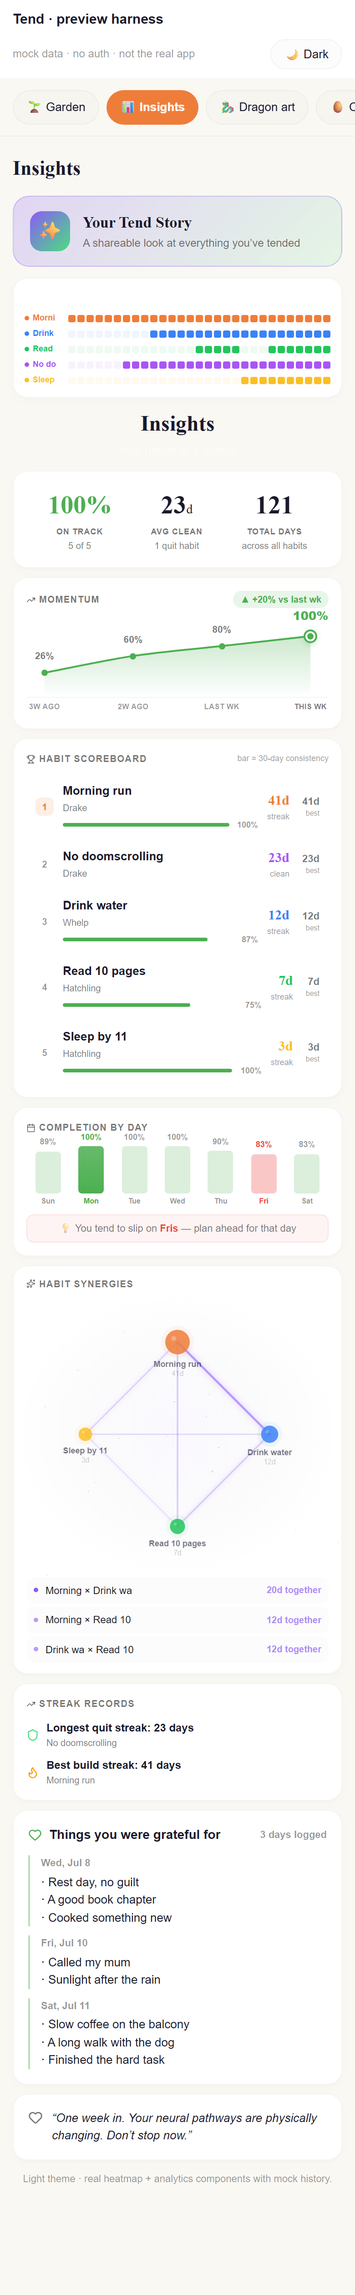
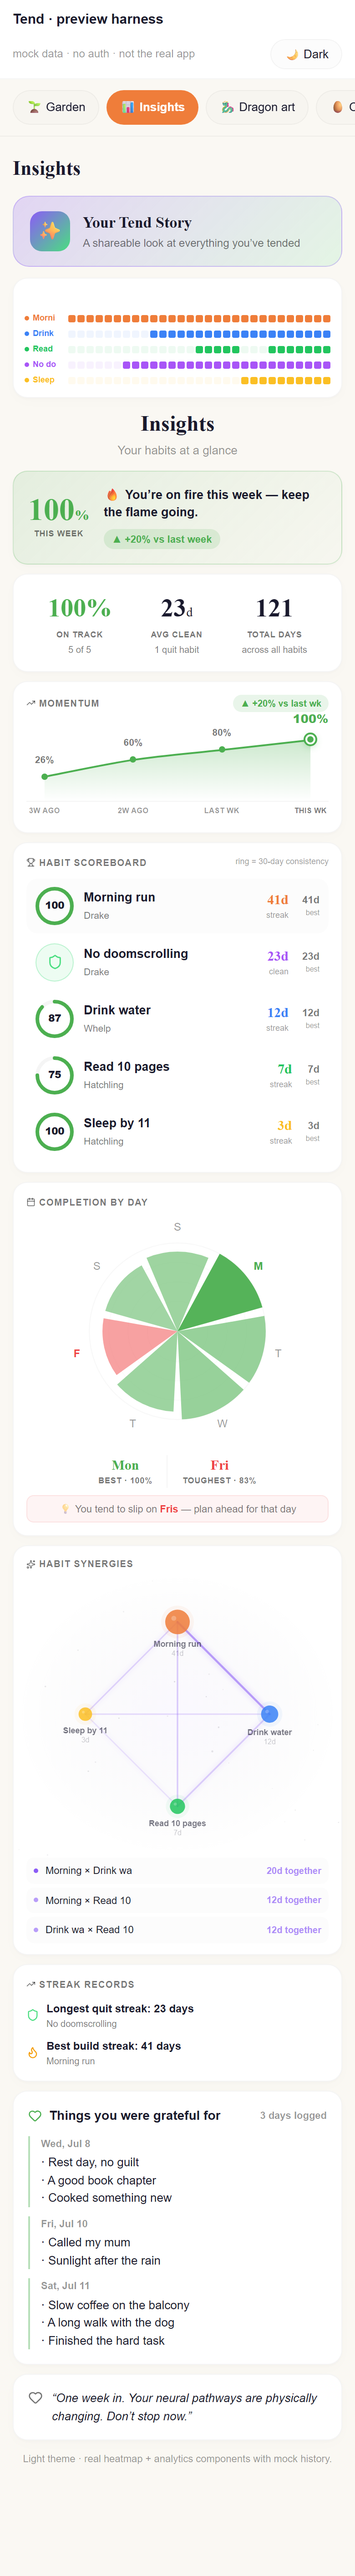
feat(insights): beautify analytics — headline hero, consistency rings, best-day polar rose
Frontier 9.2 #3 (make the deep analytics genuinely beautiful), dataviz-skill-guided
and browser-verified light+dark via the file:// pipeline.

- Headline summary hero: a warm "here's how you're doing this week" card at the top
  of Insights (big this-week %, momentum delta pill, an encouraging line keyed off
  level + trend). The emotional entry point the analytics lacked.
- Consistency rings: the Habit Scoreboard's flat progress bars are now circular
  SVG rings with the % centered — status-graded (green/amber/red) + label, so
  identity is never color-alone. Quit habits show a clean-streak shield instead.
- Best-day polar rose: "Completion by Day" flat bars are now a nightingale-rose
  radial (cyclical data reads better radially), single-hue sequential by magnitude,
  best day brightest + a Best/Toughest callout beneath.
- Fixed a contrast bug: the "Your habits at a glance" subtitle was hardcoded
  rgba(255,255,255,0.5) (invisible on light theme) -> th.textMuted.

Pure SVG + HTML-overlay labels so every chart is SSR-stable and file://-verifiable.
Reduced-motion-safe (no SMIL added). build GREEN, lint 0 errors/5 warns, tests 108/108.

diff --git a/src/components/constellation.tsx b/src/components/constellation.tsx
@@ -61,6 +61,99 @@ function smoothPath(pts: { x: number; y: number }[], close = false): string {
   return d;
 }
 
+/**
+ * A small circular progress ring with the value centered inside. Sequential-by-
+ * magnitude fill (the caller passes the graded color) over a recessive track.
+ * Pure SVG + an HTML overlay label → renders identically at SSR (file://-verifiable).
+ */
+function ConsistencyRing({ pct, color, th, size = 42 }: { pct: number; color: string; th: ThemeColors; size?: number }) {
+  const stroke = 4;
+  const r = (size - stroke) / 2;
+  const circ = 2 * Math.PI * r;
+  const dash = Math.max(0, Math.min(1, pct / 100)) * circ;
+  const cxy = size / 2;
+  return (
+    <div style={{ position: "relative", width: size, height: size, flexShrink: 0 }}>
+      <svg width={size} height={size} style={{ transform: "rotate(-90deg)", display: "block" }}>
+        <circle cx={cxy} cy={cxy} r={r} fill="none" stroke={th.progressBg} strokeWidth={stroke} />
+        <circle
+          cx={cxy} cy={cxy} r={r} fill="none" stroke={color} strokeWidth={stroke}
+          strokeDasharray={`${dash} ${circ}`} strokeLinecap="round"
+          style={{ transition: "stroke-dasharray .5s cubic-bezier(.4,0,.2,1)" }}
+        />
+      </svg>
+      <div style={{
+        position: "absolute", inset: 0, display: "flex", alignItems: "center", justifyContent: "center",
+        fontSize: 11, fontWeight: 800, color: th.text, letterSpacing: -0.3,
+      }}>{pct}</div>
+    </div>
+  );
+}
+
+/** Grade a 0–100 consistency into the status ramp (paired with the numeric label, never color-alone). */
+function gradeColor(pct: number): string {
+  return pct >= 70 ? "#4caf50" : pct >= 40 ? "#f59e0b" : "#ef4444";
+}
+
+/**
+ * Best-day "polar area" (nightingale rose): 7 sectors, one per weekday, radius ∝
+ * completion rate. Days-of-week are cyclical, so a radial reads more naturally
+ * than a bar row — and it's a lovelier centerpiece. Single-hue sequential (green)
+ * by magnitude; the best day gets the fullest, brightest wedge + a highlighted
+ * label. Pure SVG (viewBox units) so it's crisp at any width and SSR-stable.
+ */
+function PolarDays({
+  data, bestDay, worstDay, th,
+}: {
+  data: { name: string; pct: number }[];
+  bestDay: number;
+  worstDay: number;
+  th: ThemeColors;
+}) {
+  const S = 220, cx = S / 2, cy = S / 2, maxR = 82, floor = 10;
+  const seg = (Math.PI * 2) / 7;
+  const gap = 0.05; // radians of surface gap between wedges
+  const hasSpread = data[worstDay].pct < data[bestDay].pct;
+  return (
+    <svg viewBox={`0 0 ${S} ${S}`} width="100%" style={{ display: "block", maxWidth: 260, margin: "2px auto 0" }}>
+      {/* recessive concentric grid at 25 / 50 / 75 / 100% */}
+      {[0.25, 0.5, 0.75, 1].map((g) => (
+        <circle key={g} cx={cx} cy={cy} r={floor + g * (maxR - floor)} fill="none"
+          stroke={th.cardBorder} strokeWidth="1" opacity={g === 1 ? 0.7 : 0.4} />
+      ))}
+      {data.map((d, i) => {
+        const ac = i * seg - Math.PI / 2; // sector center, start at top (Sun)
+        const a0 = ac - seg / 2 + gap;
+        const a1 = ac + seg / 2 - gap;
+        const rr = floor + (d.pct / 100) * (maxR - floor);
+        const x0 = cx + Math.cos(a0) * rr, y0 = cy + Math.sin(a0) * rr;
+        const x1 = cx + Math.cos(a1) * rr, y1 = cy + Math.sin(a1) * rr;
+        const isBest = i === bestDay && hasSpread;
+        const isWorst = i === worstDay && hasSpread;
+        // Sequential green by magnitude; best day fullest, worst day dimmest.
+        const fill = isBest ? "#4caf50" : isWorst ? "#ef4444" : "#66bb6a";
+        const op = isBest ? 0.95 : isWorst ? 0.5 : 0.28 + (d.pct / 100) * 0.4;
+        // label just outside the max ring
+        const lr = maxR + 14;
+        const lx = cx + Math.cos(ac) * lr, ly = cy + Math.sin(ac) * lr;
+        return (
+          <g key={i}>
+            <path
+              d={`M ${cx} ${cy} L ${x0.toFixed(2)} ${y0.toFixed(2)} A ${rr.toFixed(2)} ${rr.toFixed(2)} 0 0 1 ${x1.toFixed(2)} ${y1.toFixed(2)} Z`}
+              fill={fill} opacity={op}
+            />
+            <text x={lx} y={ly} textAnchor="middle" dominantBaseline="middle"
+              fontSize="10" fontWeight={isBest || isWorst ? 700 : 500}
+              fill={isBest ? "#4caf50" : isWorst ? "#ef4444" : th.textMuted}>
+              {d.name[0]}
+            </text>
+          </g>
+        );
+      })}
+    </svg>
+  );
+}
+
 export function Constellation({
   habits, isDone, getStreak, getTotal, getCleanDays, getBestStreak, getStage,
   isPro, onUpgrade, th, gratitudeLog,
@@ -228,6 +321,23 @@ export function Constellation({
   };
   const advice = getAdvice();
 
+  // ── Headline summary ("here's how you're doing this week") ──
+  // A warm one-line read of the week, keyed off this-week completion % + the
+  // momentum delta vs last week. Purely derived from weeklyTrend (already memoized).
+  const thisWeekPct = weeklyTrend[weeklyTrend.length - 1]?.pct ?? 0;
+  const lastWeekPct = weeklyTrend[weeklyTrend.length - 2]?.pct ?? 0;
+  const weekDelta = thisWeekPct - lastWeekPct;
+  const headline: { emoji: string; text: string } | null =
+    habits.length === 0
+      ? null
+      : thisWeekPct >= 85
+        ? { emoji: "🔥", text: weekDelta >= 0 ? "You’re on fire this week — keep the flame going." : "Still a strong week — a small dip, nothing to worry about." }
+        : thisWeekPct >= 60
+          ? { emoji: "🌱", text: weekDelta > 0 ? "Building beautifully — you’re up from last week." : weekDelta < 0 ? "A solid week with a gentle dip — easy to recover." : "Steady and consistent — right on track." }
+          : thisWeekPct >= 30
+            ? { emoji: "🌤", text: weekDelta > 0 ? "Momentum is turning your way — lovely comeback." : "A quieter week. One small tend tomorrow turns it around." }
+            : { emoji: "🤍", text: "Fresh-start energy. Tend one egg today and the curve turns up." };
+
   // How many scoreboard rows free users see
   const FREE_SCOREBOARD_LIMIT = 3;
 
@@ -236,8 +346,40 @@ export function Constellation({
       {/* Title */}
       <div style={{ textAlign: "center", marginBottom: 12 }}>
         <h2 style={{ fontFamily: "'Fraunces',serif", fontSize: 24, fontWeight: 700, color: th.text }}>Insights</h2>
-        <p style={{ fontSize: 13, color: "rgba(255,255,255,0.5)", marginTop: 2 }}>Your habits at a glance</p>
+        <p style={{ fontSize: 13, color: th.textMuted, marginTop: 2 }}>Your habits at a glance</p>
       </div>
+
+      {/* ── 0. Headline summary — the warm "how you're doing this week" hero ── */}
+      {headline && (
+        <div className="cd" style={{
+          padding: 16, marginBottom: 10, display: "flex", alignItems: "center", gap: 16,
+          background: "linear-gradient(135deg, rgba(76,175,80,0.12), rgba(76,175,80,0.02))",
+          borderColor: "rgba(76,175,80,0.22)", boxShadow: th.cardShadow,
+        }}>
+          <div style={{ textAlign: "center", flexShrink: 0, minWidth: 62 }}>
+            <div style={{
+              fontSize: 34, fontWeight: 800, fontFamily: "'Fraunces',serif", lineHeight: 1,
+              color: thisWeekPct >= 60 ? "#4caf50" : th.text,
+            }}>{thisWeekPct}<span style={{ fontSize: 16, fontWeight: 600 }}>%</span></div>
+            <div style={{ fontSize: 9, fontWeight: 700, letterSpacing: ".5px", textTransform: "uppercase" as const, color: th.label, marginTop: 3 }}>This week</div>
+          </div>
+          <div style={{ flex: 1, minWidth: 0 }}>
+            <div style={{ fontSize: 13.5, color: th.text, fontWeight: 600, lineHeight: 1.45 }}>
+              <span style={{ marginRight: 5 }}>{headline.emoji}</span>{headline.text}
+            </div>
+            {lastWeekPct > 0 || weekDelta !== 0 ? (
+              <span style={{
+                display: "inline-flex", alignItems: "center", gap: 4, marginTop: 8,
+                fontSize: 11, fontWeight: 700, padding: "3px 9px", borderRadius: 999,
+                color: weekDelta > 0 ? "#4caf50" : weekDelta < 0 ? "#e57373" : th.textMuted,
+                background: weekDelta > 0 ? "rgba(76,175,80,0.14)" : weekDelta < 0 ? "rgba(229,115,115,0.14)" : th.progressBg,
+              }}>
+                {weekDelta > 0 ? "▲" : weekDelta < 0 ? "▼" : "•"} {weekDelta > 0 ? "+" : ""}{weekDelta}% vs last week
+              </span>
+            ) : null}
+          </div>
+        </div>
+      )}
 
       {/* ── 1. Overview stats ── */}
       <div className="cd" style={{ padding: 16, marginBottom: 10, background: th.card, borderColor: th.cardBorder, boxShadow: th.cardShadow }}>
@@ -353,7 +495,7 @@ export function Constellation({
           <div className="lb" style={{ marginBottom: 10, color: th.label, display: "flex", alignItems: "center", gap: 4 }}>
             <Trophy size={10} /> Habit Scoreboard
             <span style={{ fontWeight: 500, textTransform: "none", letterSpacing: 0, color: th.textMuted, marginLeft: "auto", fontSize: 9 }}>
-              bar = 30-day consistency
+              ring = 30-day consistency
             </span>
           </div>
           <div style={{ display: "flex", flexDirection: "column", gap: 2 }}>
@@ -362,47 +504,34 @@ export function Constellation({
               const stageLabel = getStage ? STAGE_LABELS[s.stage] : "";
               return (
                 <div key={s.habit.id} style={{
-                  display: "flex", alignItems: "center", gap: 10,
-                  padding: "8px 10px", borderRadius: 10,
-                  background: i === 0 ? "rgba(255,255,255,0.03)" : "transparent",
+                  display: "flex", alignItems: "center", gap: 11,
+                  padding: "9px 10px", borderRadius: 12,
+                  background: i === 0 ? th.hoverBg : "transparent",
                 }}>
-                  {/* Rank */}
-                  <div style={{
-                    width: 20, height: 20, borderRadius: 6,
-                    background: i === 0 ? `${s.habit.color}20` : "rgba(255,255,255,0.03)",
-                    display: "flex", alignItems: "center", justifyContent: "center",
-                    fontSize: 10, fontWeight: 700, color: i === 0 ? s.habit.color : th.textMuted,
-                  }}>
-                    {i + 1}
-                  </div>
+                  {/* Consistency ring (build) or a clean-streak shield (quit) \u2014 the row's visual anchor */}
+                  {isQuit ? (
+                    <div style={{
+                      position: "relative", width: 42, height: 42, borderRadius: "50%", flexShrink: 0,
+                      display: "flex", alignItems: "center", justifyContent: "center",
+                      background: "rgba(74,222,128,0.1)", border: "1.5px solid rgba(74,222,128,0.3)",
+                    }}>
+                      <Shield size={17} color="#4ade80" />
+                    </div>
+                  ) : (
+                    <ConsistencyRing pct={s.consistency} color={gradeColor(s.consistency)} th={th} />
+                  )}
                   {/* Name */}
                   <div style={{ flex: 1, minWidth: 0 }}>
                     <div style={{
-                      fontSize: 13, fontWeight: 600, color: th.text,
+                      fontSize: 13.5, fontWeight: 600, color: th.text,
                       overflow: "hidden", textOverflow: "ellipsis", whiteSpace: "nowrap",
                     }}>
                       {s.habit.creature_name || s.habit.name}
                     </div>
-                    <div style={{ fontSize: 10, color: th.textSub, marginTop: 1 }}>
+                    <div style={{ fontSize: 10.5, color: th.textSub, marginTop: 2 }}>
                       {s.habit.creature_name ? s.habit.name : stageLabel}
                       {s.habit.creature_name && stageLabel ? ` \u00b7 ${stageLabel}` : ""}
                     </div>
-                    {/* Consistency bar (build habits) */}
-                    {!isQuit && (
-                      <div style={{ display: "flex", alignItems: "center", gap: 6, marginTop: 5 }}>
-                        <div style={{ flex: 1, height: 4, borderRadius: 3, background: "rgba(255,255,255,0.06)", overflow: "hidden" }}>
-                          <div style={{
-                            height: "100%", borderRadius: 3,
-                            width: `${s.consistency}%`,
-                            background: s.consistency >= 70 ? "#4caf50" : s.consistency >= 40 ? "#f59e0b" : "#ef4444",
-                            transition: "width .4s ease",
-                          }} />
-                        </div>
-                        <span style={{ fontSize: 9, fontWeight: 700, color: th.textMuted, minWidth: 26, textAlign: "right" }}>
-                          {s.consistency}%
-                        </span>
-                      </div>
-                    )}
                   </div>
                   {/* Streak */}
                   <div style={{ textAlign: "right", flexShrink: 0 }}>
@@ -453,40 +582,24 @@ export function Constellation({
       {/* ── 4. Day-of-week analysis (PRO) ── */}
       {isPro && buildHabits.length > 0 && (
         <div className="cd" style={{ padding: 14, marginBottom: 10, background: th.card, borderColor: th.cardBorder, boxShadow: th.cardShadow }}>
-          <div className="lb" style={{ marginBottom: 10, color: th.label, display: "flex", alignItems: "center", gap: 4 }}>
+          <div className="lb" style={{ marginBottom: 4, color: th.label, display: "flex", alignItems: "center", gap: 4 }}>
             <Calendar size={10} /> Completion by Day
           </div>
-          <div style={{ display: "flex", alignItems: "flex-end", gap: 4, height: 70, padding: "0 2px" }}>
-            {dayOfWeekData.map((d, i) => {
-              const barH = Math.max(3, (d.pct / 100) * 52);
-              const isBest = i === bestDay;
-              const isWorst = i === worstDay && d.pct < dayOfWeekData[bestDay].pct;
-              return (
-                <div key={i} style={{ flex: 1, display: "flex", flexDirection: "column", alignItems: "center", gap: 3 }}>
-                  <div style={{
-                    fontSize: 9, fontWeight: 600,
-                    color: isBest ? "#4caf50" : isWorst ? "#ef4444" : th.textMuted,
-                  }}>
-                    {d.pct}%
-                  </div>
-                  <div style={{
-                    width: "100%", maxWidth: 28, height: barH, borderRadius: 4,
-                    background: isBest
-                      ? "linear-gradient(to top, #4caf50, #66bb6a)"
-                      : isWorst
-                        ? "rgba(239,68,68,0.3)"
-                        : "rgba(76,175,80,0.2)",
-                  }} />
-                  <div style={{
-                    fontSize: 8, fontWeight: 600,
-                    color: isBest ? "#4caf50" : isWorst ? "#ef4444" : th.textMuted,
-                  }}>
-                    {d.name}
-                  </div>
-                </div>
-              );
-            })}
-          </div>
+          <PolarDays data={dayOfWeekData} bestDay={bestDay} worstDay={worstDay} th={th} />
+          {/* best / worst callout beneath the rose */}
+          {dayOfWeekData[worstDay].pct < dayOfWeekData[bestDay].pct && (
+            <div style={{ display: "flex", justifyContent: "center", gap: 16, margin: "6px 0 2px" }}>
+              <div style={{ textAlign: "center" }}>
+                <div style={{ fontSize: 15, fontWeight: 800, fontFamily: "'Fraunces',serif", color: "#4caf50" }}>{dayOfWeekData[bestDay].name}</div>
+                <div style={{ fontSize: 9, fontWeight: 700, letterSpacing: ".4px", textTransform: "uppercase" as const, color: th.label }}>Best · {dayOfWeekData[bestDay].pct}%</div>
+              </div>
+              <div style={{ width: 1, background: th.cardBorder }} />
+              <div style={{ textAlign: "center" }}>
+                <div style={{ fontSize: 15, fontWeight: 800, fontFamily: "'Fraunces',serif", color: "#ef4444" }}>{dayOfWeekData[worstDay].name}</div>
+                <div style={{ fontSize: 9, fontWeight: 700, letterSpacing: ".4px", textTransform: "uppercase" as const, color: th.label }}>Toughest · {dayOfWeekData[worstDay].pct}%</div>
+              </div>
+            </div>
+          )}
           {dayOfWeekData[worstDay].pct < dayOfWeekData[bestDay].pct && (
             <div style={{
               marginTop: 8, padding: "6px 10px", borderRadius: 8,
